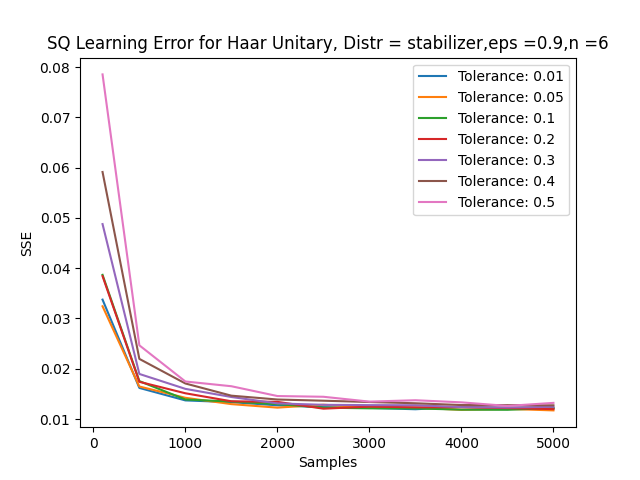
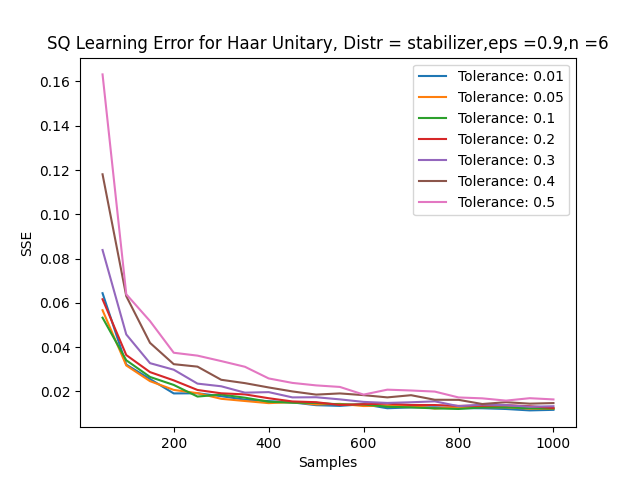
Redo SQ Learning simulations

diff --git a/simulations/plot.py b/simulations/plot.py
@@ -9,10 +9,13 @@ o_str = 'z1'
 n = 6
 eps = 0.9
 tolerance = np.array([0.01, 0.05, 0.1, 0.2, 0.3, 0.4, 0.5])
-samples = np.array([100, 500, 1000, 1500, 2000, 2500, 3000, 3500, 4000, 4500, 5000])
+step = 50
+N_min = 50
+N_max = 1000
+samples = range(N_min,N_max+1,step)
 num_shots = 10
 
-suffix = "_eps"+str(eps)+"_reps"+str(num_shots)+"_"+o_str+"_n"+str(n)+".npy"
+suffix = "_eps"+str(eps)+"_reps"+str(num_shots)+"_"+o_str+"_n"+str(n)+"_N"+str(N_min)+"-"+str(N_max)+".npy"
 data00 = np.load(u_str[0]+"_"+d_str[0]+suffix)
 data01 = np.load(u_str[0]+"_"+d_str[1]+suffix)
 data02 = np.load(u_str[0]+"_"+d_str[2]+suffix)
@@ -25,22 +28,22 @@ data20 = np.load(u_str[2]+"_"+d_str[0]+suffix)
 data21 = np.load(u_str[2]+"_"+d_str[1]+suffix)
 data22 = np.load(u_str[2]+"_"+d_str[2]+suffix)
 
-# plt.plot(samples,data02[1], label = 'Unitary: '+u_str[0])
-# plt.plot(samples,data12[1], label = 'Unitary: '+u_str[1])
-# plt.plot(samples,data22[1], label = 'Unitary: '+u_str[2])
+plt.plot(samples,data20[1], label = 'Target states: '+d_str[0])
+plt.plot(samples,data21[1], label = 'Target states: '+d_str[1])
+plt.plot(samples,data22[1], label = 'Target states: '+d_str[2])
 
 
-# plt.xlabel('Number of samples')
-# plt.ylabel('SSE')
-# plt.title('SQ Learning Error with target haar-random states, tau = '+str(tolerance[1])+',eps ='+str(eps)+',n ='+str(n))
-# plt.legend(loc = 'upper right')
-# plt.show()
-
-for i in range(len(tolerance)):
-    plt.plot(samples,data20[i], label = 'Tolerance: '+str(tolerance[i]))
-
-plt.xlabel('Samples')
+plt.xlabel('Number of samples')
 plt.ylabel('SSE')
-plt.title('SQ Learning Error for Haar Unitary, Distr = '+d_str[0]+',eps ='+str(eps)+',n ='+str(n))
+plt.title('SQ Learning Error for Haar-random Unitary, tau = '+str(tolerance[1])+',eps ='+str(eps)+',n ='+str(n))
 plt.legend(loc = 'upper right')
 plt.show()
+
+# for i in range(len(tolerance)):
+#     plt.plot(samples,data02[i], label = 'Tolerance: '+str(tolerance[i]))
+
+# plt.xlabel('Samples')
+# plt.ylabel('SSE')
+# plt.title('SQ Learning Error for Identity Unitary, Distr = '+d_str[2]+',eps ='+str(eps)+',n ='+str(n))
+# plt.legend(loc = 'upper right')
+# plt.show()

diff --git a/simulations/sim_tau.py b/simulations/sim_tau.py
@@ -40,7 +40,10 @@ d_str = ['classical','stabilizer','haar_states']
 
 eps = 0.9
 tolerance = np.array([0.01, 0.05, 0.1, 0.2, 0.3, 0.4, 0.5])
-samples = np.array([100, 500, 1000, 1500, 2000, 2500, 3000, 3500, 4000, 4500, 5000])
+step = 50
+N_min = 50
+N_max = 1000
+samples = range(N_min,N_max+1,step)
 num_shots = 10
 
 for u_iter in range(len(unitaries)):
@@ -66,7 +69,7 @@ for u_iter in range(len(unitaries)):
                 error /= (num_shots*len(D[d_iter]))
                 print("Unitary = ", u_str[u_iter],", Distribution = ", d_str[d_iter],", N = ",N,", tau = ",tau ,", n = ",n,", error = ",error)
                 data[t_iter,N_iter] = error 
-        filename = u_str[u_iter]+"_"+d_str[d_iter]+"_eps"+str(eps)+"_reps"+str(num_shots)+"_"+o_str+"_n"+str(n)
+        filename = u_str[u_iter]+"_"+d_str[d_iter]+"_eps"+str(eps)+"_reps"+str(num_shots)+"_"+o_str+"_n"+str(n)+"_N"+str(N_min)+"-"+str(N_max)
         np.save(filename,data)
 
 
